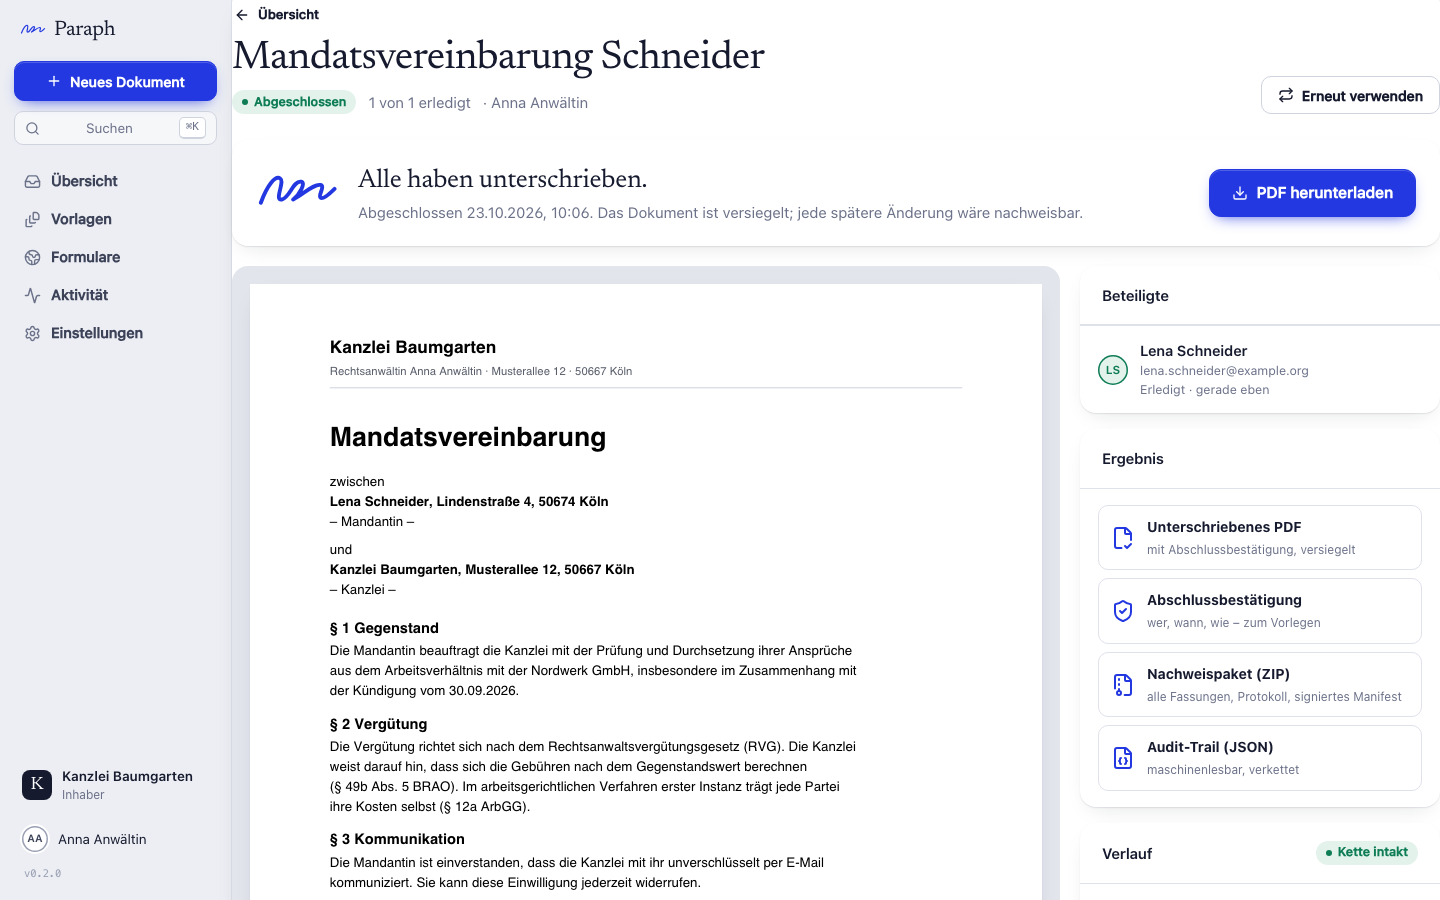
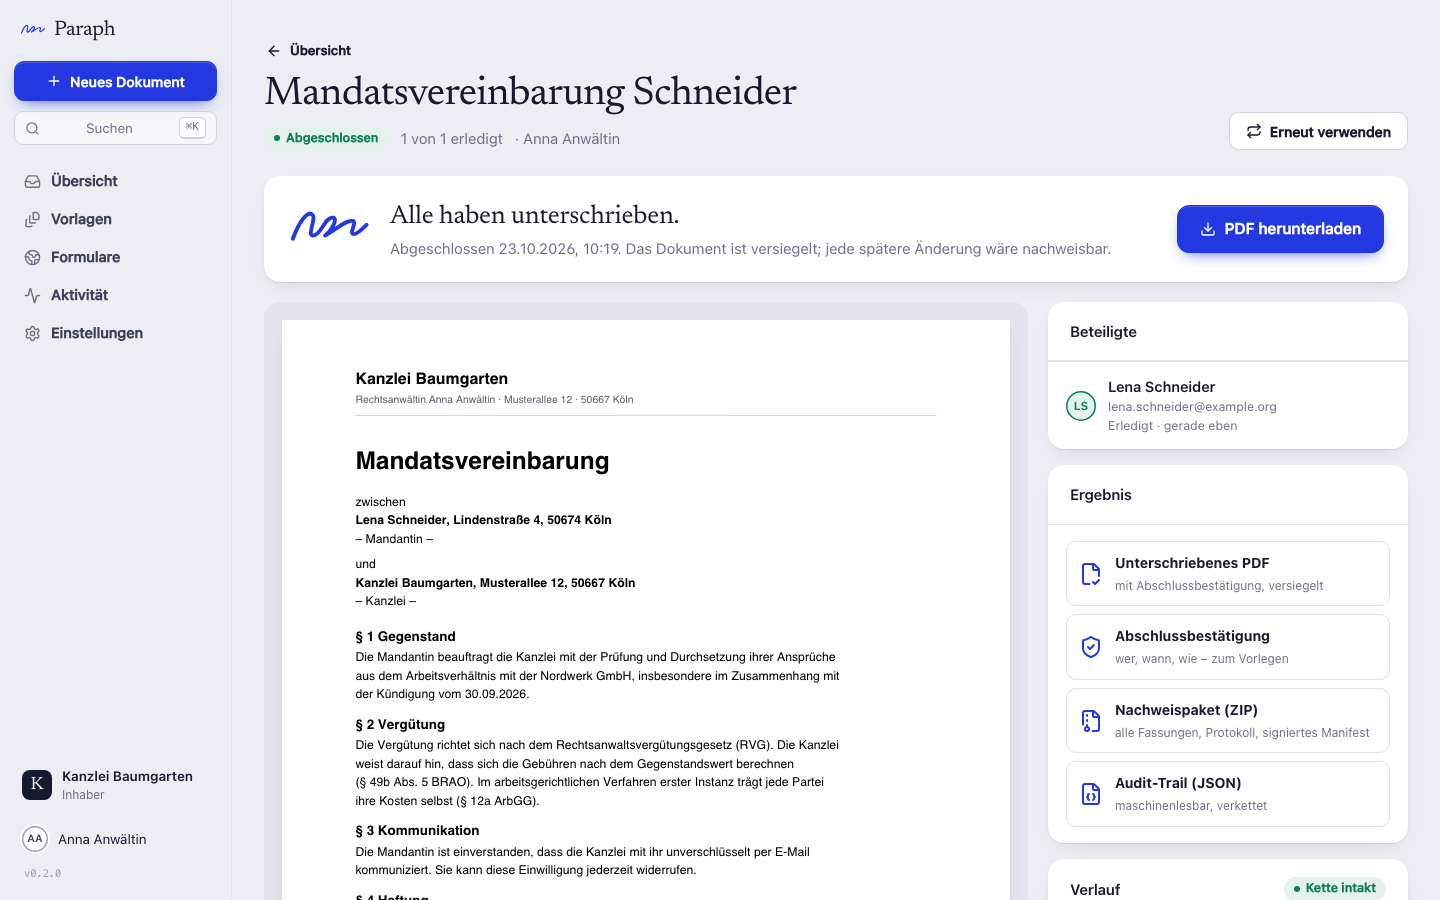
Layout: Vorgangsseite mit Seitenrand, Editor-Spalte ohne Überlauf; Screenshots erneuert
Die Vorgangsseite trug seit ba38a12 versehentlich die Klasse der PDF-Seiten (pdfpage) statt page und klebte
dadurch ohne Abstand an der Seitenleiste. Im Editor schob die Zeile „Beteiligte“ mit dem Umschalter
Gleichzeitig/Nacheinander die rechte Spalte über den Rand; die Abschnitte begrenzen ihre Breite jetzt
(minmax(0, 1fr)), der Umschalter rutscht bei Platzmangel in die nächste Zeile.

Changed region(s): [[0.1562, 0.0, 1.0, 1.0], [0.8438, 0.0933, 1.0, 0.1556]]

diff --git a/src/web/pages/EnvelopeEditor.tsx b/src/web/pages/EnvelopeEditor.tsx
@@ -53,7 +53,7 @@ export function RecipientsPanel({ recs, setRecs, order, setOrder, features }: { 
   };
   return (
     <section className="insp-section">
-      <div className="row">
+      <div className="row row-wrap insp-head">
         <div className="eyebrow grow">{t('Beteiligte')}</div>
         <div className="segmented" role="group" aria-label={t('Reihenfolge')}>
           <button aria-pressed={order === 'parallel'} onClick={() => setOrder('parallel')} title={t('Alle gleichzeitig')}>{t('Gleichzeitig')}</button>

diff --git a/src/web/pages/EnvelopePage.tsx b/src/web/pages/EnvelopePage.tsx
@@ -131,7 +131,7 @@ export default function EnvelopePage() {
   const done = actors.filter((r: any) => r.status === 'completed').length;
 
   return (
-    <div className="pdfpage" style={{ maxWidth: 1240 }}>
+    <div className="page" style={{ maxWidth: 1240 }}>
       <div className="page-head">
         <div className="grow" style={{ minWidth: 0 }}>
           <Link to="/" className="btn btn-ghost btn-sm" style={{ marginBottom: 8, marginLeft: -10 }}><ArrowLeft /> {t('Übersicht')}</Link>

diff --git a/src/web/styles/studio.css b/src/web/styles/studio.css
@@ -349,7 +349,13 @@
   padding: 16px 16px;
   border-bottom: 1px solid var(--rule);
   display: grid;
+  /* Breite Inhalte dürfen die Spalte nicht über den Rand schieben */
+  grid-template-columns: minmax(0, 1fr);
   gap: 12px;
+}
+/* Überschrift und Umschalter: passt beides nicht nebeneinander, rutscht der Umschalter in die nächste Zeile */
+.insp-head .eyebrow {
+  flex: 1 0 auto;
 }
 .insp-tips {
   color: var(--ink-3);
